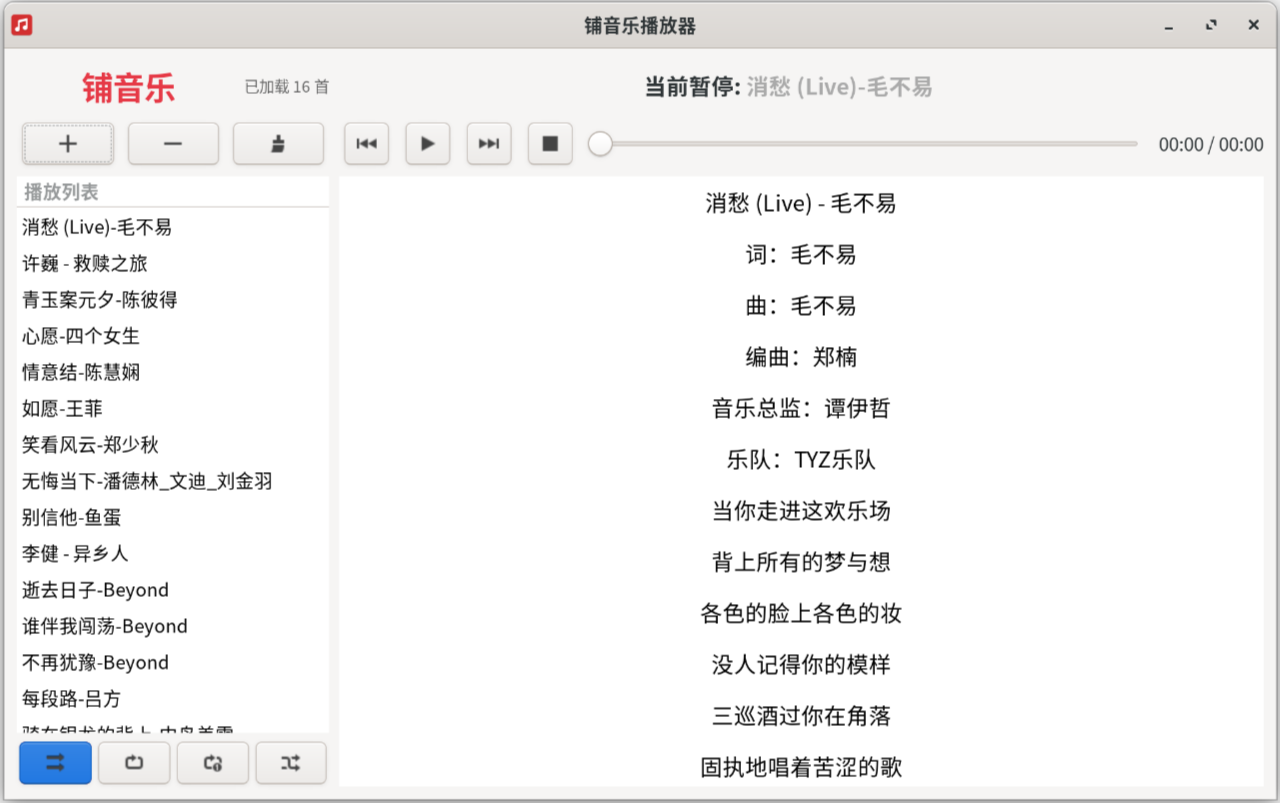
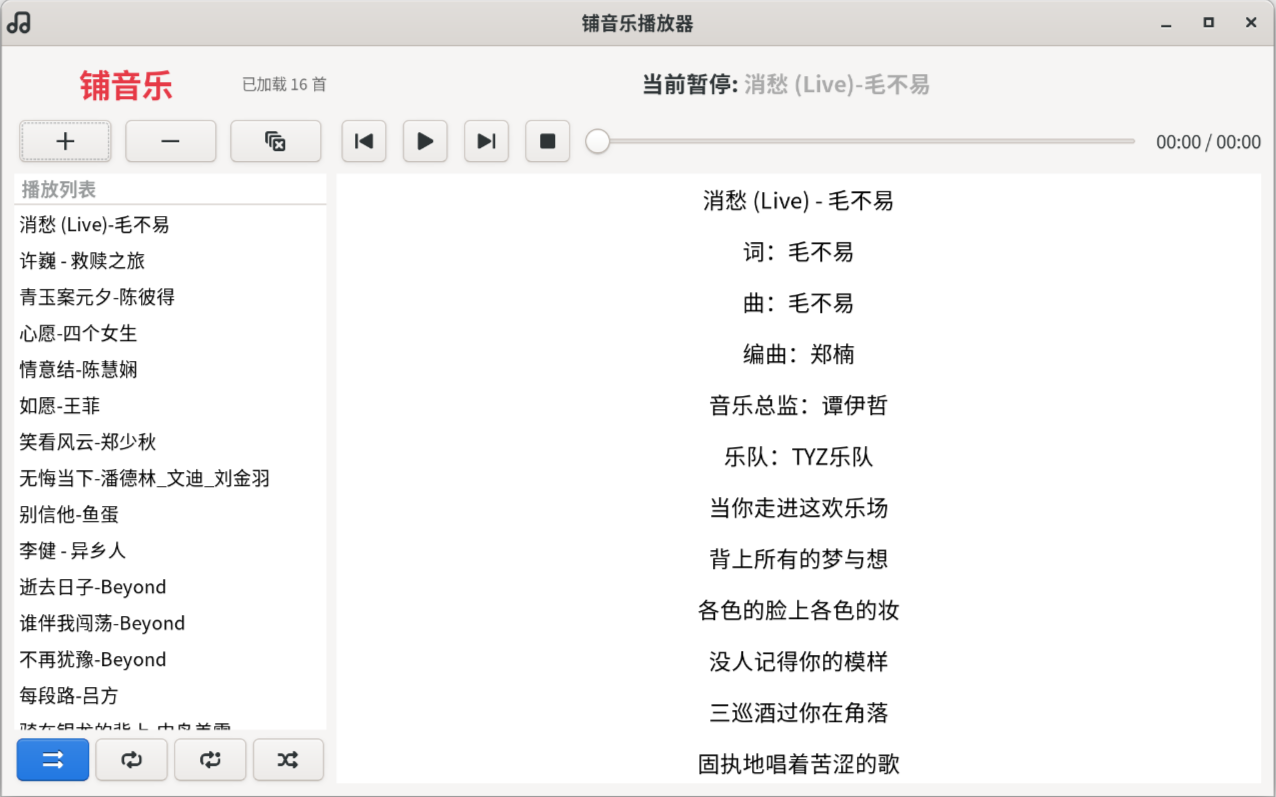
去除内置图标，写死图标为Adwaita

diff --git a/PooMusic.py b/PooMusic.py
@@ -1,21 +1,22 @@
 #!/usr/bin/env python3
 # coding=utf-8
 
-# Depends: python3-gi python3-gi-cairo gir1.2-gtk-3.0 gstreamer1.0-plugins-good gstreamer1.0-plugins-ugly gir1.2-gst-plugins-base-1.0 gir1.2-gstreamer-1.0 libgssdp-1.6-0 libgstreamer-plugins-bad1.0-0 libgupnp-1.6-0 libgupnp-igd-1.6-0 libva-drm2 libva2 python3-gst-1.0
+# Depends: python3-gi python3-gi-cairo gir1.2-gtk-3.0 gstreamer1.0-plugins-good gstreamer1.0-plugins-ugly gir1.2-gst-plugins-base-1.0 gir1.2-gstreamer-1.0 libgssdp-1.6-0 libgstreamer-plugins-bad1.0-0 libgupnp-1.6-0 libgupnp-igd-1.6-0 libva-drm2 libva2 python3-gst-1.0 python3-typing-extensions adwaita-icon-theme
 
 import gi
 import random
 gi.require_version('Gtk', '3.0')
 gi.require_version('Gst', '1.0')
-from gi.repository import Gtk, Gst, GLib, GObject, Gio, GdkPixbuf
+from gi.repository import Gtk, Gst, GLib, GObject
 import os
 import re
 import pathlib
 import threading
-import base64
 
 # 初始化GStreamer
 Gst.init(None)
+# 写死主题图标
+Gtk.Settings.get_default().set_property('gtk-icon-theme-name','Adwaita')
 
 # 定义音乐文件夹路径（适配不同系统的"音乐"文件夹）
 if os.name == 'nt':  # Windows系统
@@ -28,27 +29,6 @@ else:  # Linux/Mac系统（中文环境）
 
 # 配置项：可选择是否快速加载（跳过时长获取）
 FAST_LOAD = True  # True=快速加载（无时长），False=精确时长（稍慢）
-
[13 lines of base64/hex data omitted]
-
-def svg_to_b64(b64):
-    data = base64.b64decode(b64)
-    stream = Gio.MemoryInputStream.new_from_data(data)
-    pixbuf = GdkPixbuf.Pixbuf.new_from_stream_at_scale(stream,16,16,True)
-    icon = Gtk.Image.new_from_pixbuf(pixbuf)
-    return icon
 
 class LrcParser:
     """增强版LRC歌词解析器"""
@@ -109,11 +89,7 @@ class MusicPlayer(Gtk.Window):
         super().__init__(title='铺音乐播放器')
         self.set_default_size(1000, 600)
         self.set_border_width(10)  # 关键修改：窗口内边距设为10
-        loader = GdkPixbuf.PixbufLoader.new()
-        loader.write(base64.b64decode(b64_icon))
-        loader.close()
-        self.set_icon(loader.get_pixbuf())  # 直接设置图标
-        #self.set_icon_name("folder-music-symbolic")
+        self.set_icon_name("folder-music-symbolic")
 
         # 核心状态
         self.playlist = []          # 播放列表 [(文件路径, 歌曲名, 时长秒数), ...]
@@ -126,7 +102,7 @@ class MusicPlayer(Gtk.Window):
         
         # 播放模式：0-顺序 1-循环 2-单曲循环 3-随机
         self.play_mode = 0
-        self.mode_labels = [{'顺序播放':b64_normal}, {'循环播放':b64_repeat}, {'单曲循环':b64_repeat_song}, {'随机播放':b64_shuffle}]
+        self.mode_labels = [{'顺序播放':'media-playlist-consecutive-symbolic'}, {'循环播放':'media-playlist-repeat-symbolic'}, {'单曲循环':'media-playlist-repeat-song-symbolic'}, {'随机播放':'media-playlist-shuffle-symbolic'}]
         # 新增：播放模式按钮引用
         self.mode_buttons = []
         
@@ -233,22 +209,19 @@ class MusicPlayer(Gtk.Window):
         playlist_ctrl = Gtk.Box(spacing=3)
         btn_add = Gtk.Button()
         btn_add.set_tooltip_text("添加歌曲")
-        icon = svg_to_b64(b64_add)
-        #icon = Gtk.Image.new_from_icon_name("list-add-symbolic", Gtk.IconSize.BUTTON)
+        icon = Gtk.Image.new_from_icon_name("list-add-symbolic", Gtk.IconSize.BUTTON)
         btn_add.set_image(icon)
         btn_add.set_always_show_image(True)  # 让图标居中显示
 
         btn_remove = Gtk.Button()
         btn_remove.set_tooltip_text("删除歌曲")
-        icon = svg_to_b64(b64_remove)
-        #icon = Gtk.Image.new_from_icon_name("list-remove-symbolic", Gtk.IconSize.BUTTON)
+        icon = Gtk.Image.new_from_icon_name("list-remove-symbolic", Gtk.IconSize.BUTTON)
         btn_remove.set_image(icon)
         btn_remove.set_always_show_image(True)  # 让图标居中显示
 
         btn_clear = Gtk.Button()
         btn_clear.set_tooltip_text("清空列表")
-        icon = svg_to_b64(b64_clear)
-        #icon = Gtk.Image.new_from_icon_name("media-removable-symbolic", Gtk.IconSize.BUTTON)
+        icon = Gtk.Image.new_from_icon_name("edit-clear-all-symbolic", Gtk.IconSize.BUTTON)
         btn_clear.set_image(icon)
         btn_clear.set_always_show_image(True)  # 让图标居中显示
 
@@ -320,8 +293,7 @@ class MusicPlayer(Gtk.Window):
             btn = Gtk.Button()
             (key, value), = tooltip.items()
             btn.set_tooltip_text(key)
-            icon = svg_to_b64(value)
-            #icon = Gtk.Image.new_from_icon_name(value, Gtk.IconSize.BUTTON)
+            icon = Gtk.Image.new_from_icon_name(value, Gtk.IconSize.BUTTON)
             btn.set_image(icon)
             btn.set_always_show_image(True)  # 让图标居中显示
             btn.connect('clicked', self.on_mode_button_click, i)
@@ -351,29 +323,25 @@ class MusicPlayer(Gtk.Window):
         # 播放控制按钮
         self.btn_prev = Gtk.Button()
         self.btn_prev.set_tooltip_text("上一曲")
-        icon = svg_to_b64(b64_prev)
-        #icon = Gtk.Image.new_from_icon_name("media-skip-backward-symbolic", Gtk.IconSize.BUTTON)
+        icon = Gtk.Image.new_from_icon_name("media-skip-backward-symbolic", Gtk.IconSize.BUTTON)
         self.btn_prev.set_image(icon)
         self.btn_prev.set_always_show_image(True)  # 让图标居中显示
 
         self.btn_play = Gtk.Button()
-        self.btn_play.set_tooltip_text("播放")        
-        icon = svg_to_b64(b64_play)
-        #icon = Gtk.Image.new_from_icon_name("media-playback-start-symbolic", Gtk.IconSize.BUTTON)
+        self.btn_play.set_tooltip_text("播放")
+        icon = Gtk.Image.new_from_icon_name("media-playback-start-symbolic", Gtk.IconSize.BUTTON)
         self.btn_play.set_image(icon)
         self.btn_play.set_always_show_image(True)  # 让图标居中显示
 
         self.btn_next = Gtk.Button()
         self.btn_next.set_tooltip_text("下一曲")
-        icon = svg_to_b64(b64_next)
-        #icon = Gtk.Image.new_from_icon_name("media-skip-forward-symbolic", Gtk.IconSize.BUTTON)
+        icon = Gtk.Image.new_from_icon_name("media-skip-forward-symbolic", Gtk.IconSize.BUTTON)
         self.btn_next.set_image(icon)
         self.btn_next.set_always_show_image(True)  # 让图标居中显示
 
         self.btn_stop = Gtk.Button()
         self.btn_stop.set_tooltip_text("停止")
-        icon = svg_to_b64(b64_stop)
-        #icon = Gtk.Image.new_from_icon_name("media-playback-stop-symbolic", Gtk.IconSize.BUTTON)
+        icon = Gtk.Image.new_from_icon_name("media-playback-stop-symbolic", Gtk.IconSize.BUTTON)
         self.btn_stop.set_image(icon)
         self.btn_stop.set_always_show_image(True)  # 让图标居中显示
 
@@ -445,7 +413,7 @@ class MusicPlayer(Gtk.Window):
             self.random_playlist = []
             self.random_index = -1
             
-        print(f"切换播放模式: {list(self.mode_labels[self.play_mode])[0]}")
+        print(f"切换播放模式: {self.mode_labels[self.play_mode]}")
 
     # 更新播放模式按钮样式
     def update_mode_buttons_style(self):
@@ -479,8 +447,7 @@ class MusicPlayer(Gtk.Window):
                 self.load_song(idx)
                 self.play_flag = True
                 self.btn_play.set_tooltip_text("暂停")
-                icon = svg_to_b64(b64_pause)
-                #icon = Gtk.Image.new_from_icon_name("media-playback-pause-symbolic", Gtk.IconSize.BUTTON)
+                icon = Gtk.Image.new_from_icon_name("media-playback-pause-symbolic", Gtk.IconSize.BUTTON)
                 self.btn_play.set_image(icon)
                 # 延迟启动播放，等待时长加载
                 GLib.idle_add(self.delayed_play)
@@ -747,8 +714,7 @@ class MusicPlayer(Gtk.Window):
             self.player.set_state(Gst.State.READY)
             self.play_flag = False
             self.btn_play.set_tooltip_text("播放")
-            icon = svg_to_b64(b64_play)
-            #icon = Gtk.Image.new_from_icon_name("media-playback-start-symbolic", Gtk.IconSize.BUTTON)
+            icon = Gtk.Image.new_from_icon_name("media-playback-start-symbolic", Gtk.IconSize.BUTTON)
             self.btn_play.set_image(icon)
 
         # 从播放列表中删除对应条目
@@ -795,8 +761,7 @@ class MusicPlayer(Gtk.Window):
         self.play_flag = False
         self.player.set_state(Gst.State.READY)
         self.btn_play.set_tooltip_text("播放")
-        icon = svg_to_b64(b64_play)
-        #icon = Gtk.Image.new_from_icon_name("media-playback-start-symbolic", Gtk.IconSize.BUTTON)
+        icon = Gtk.Image.new_from_icon_name("media-playback-start-symbolic", Gtk.IconSize.BUTTON)
         self.btn_play.set_image(icon)
         self.reset_lrc_display()
         self.label_duration.set_label('--:-- / --:--')  # 恢复占位符
@@ -865,15 +830,13 @@ class MusicPlayer(Gtk.Window):
                 self.player.set_state(Gst.State.PLAYING)
                 self.play_flag = True
                 self.btn_play.set_tooltip_text("暂停")
-                icon = svg_to_b64(b64_pause)
-                #icon = Gtk.Image.new_from_icon_name("media-playback-pause-symbolic", Gtk.IconSize.BUTTON)
+                icon = Gtk.Image.new_from_icon_name("media-playback-pause-symbolic", Gtk.IconSize.BUTTON)
                 self.btn_play.set_image(icon)
             else:
                 self.player.set_state(Gst.State.PAUSED)
                 self.play_flag = False
                 self.btn_play.set_tooltip_text("播放")
-                icon = svg_to_b64(b64_play)
-                #icon = Gtk.Image.new_from_icon_name("media-playback-start-symbolic", Gtk.IconSize.BUTTON)
+                icon = Gtk.Image.new_from_icon_name("media-playback-start-symbolic", Gtk.IconSize.BUTTON)
                 self.btn_play.set_image(icon)
         self.update_current_song_display()
 
@@ -882,8 +845,7 @@ class MusicPlayer(Gtk.Window):
         self.player.set_state(Gst.State.READY)
         self.play_flag = False
         self.btn_play.set_tooltip_text("播放")
-        icon = svg_to_b64(b64_play)
-        #icon = Gtk.Image.new_from_icon_name("media-playback-start-symbolic", Gtk.IconSize.BUTTON)
+        icon = Gtk.Image.new_from_icon_name("media-playback-start-symbolic", Gtk.IconSize.BUTTON)
         self.btn_play.set_image(icon)
         self.curr_pos = 0.0
         self.scale.set_value(0)

diff --git a/README.md b/README.md
@@ -7,6 +7,7 @@
 # Python GTK 核心组
 python3-gi-cairo
 gir1.2-gtk-3.0
+adwaita-icon-theme
 
 # GStreamer 多媒体组（音视频）
 python3-gst-1.0
